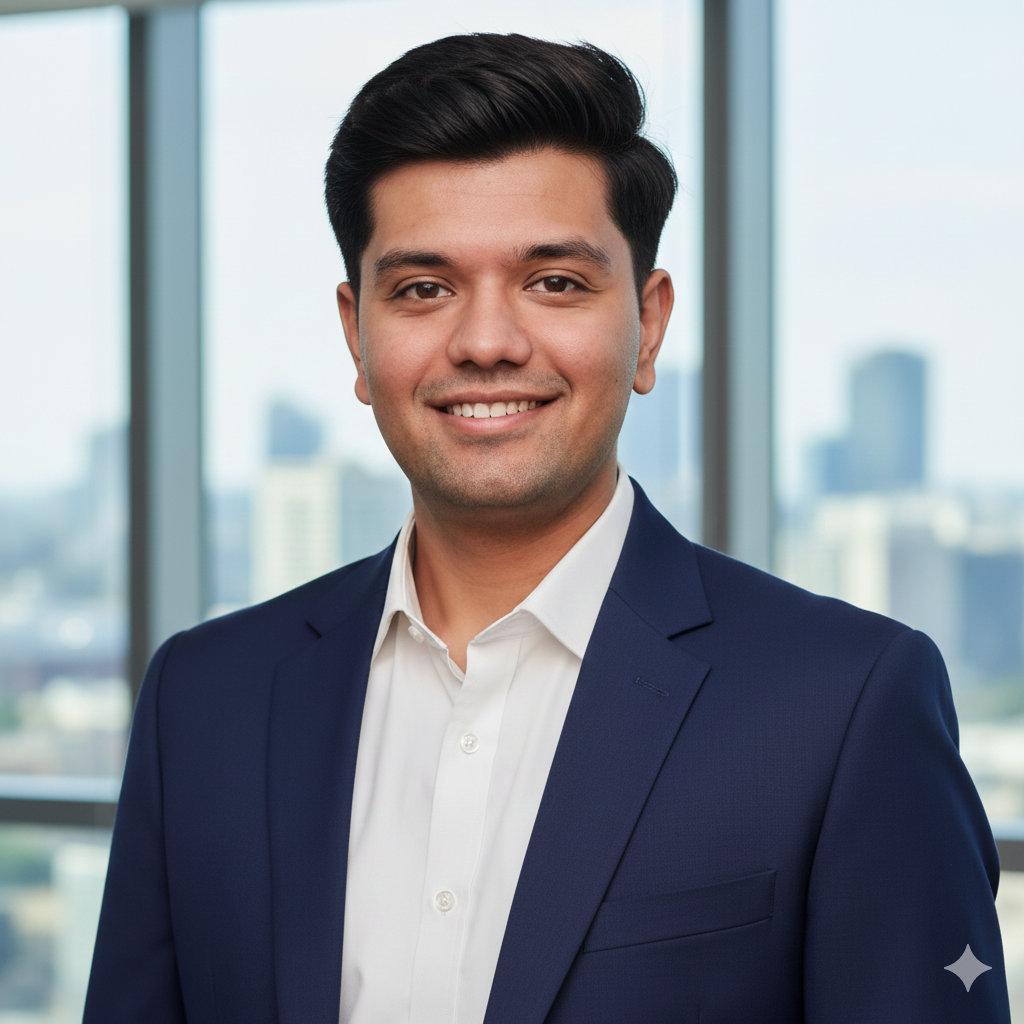
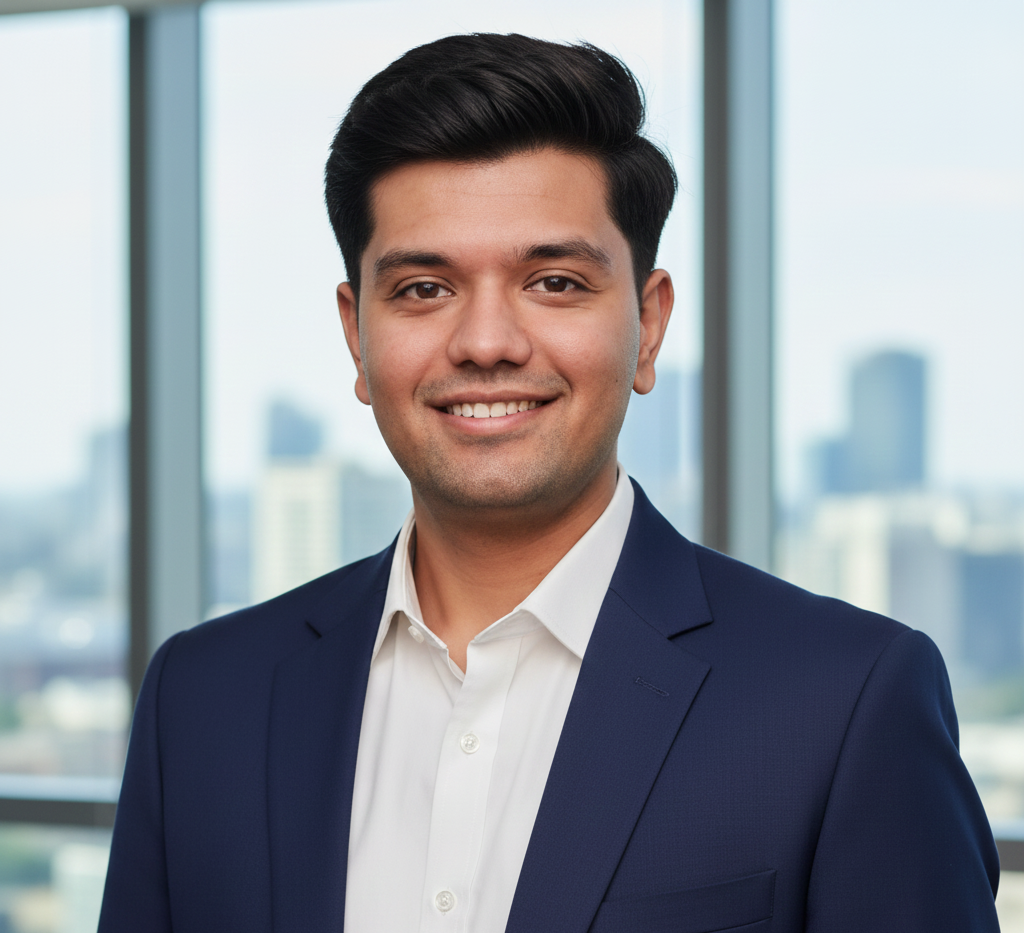
i have update image but here not

diff --git a/src/app/about/page.tsx b/src/app/about/page.tsx
@@ -173,7 +173,7 @@ export default function AboutPage() {
                                 data-ai-hint={member.image.imageHint}
                                 width={400}
                                 height={400}
-                                className="w-full h-full object-cover"
+                                className="w-full h-full object-cover scale-110"
                                 />
                             )}
                         </div>
